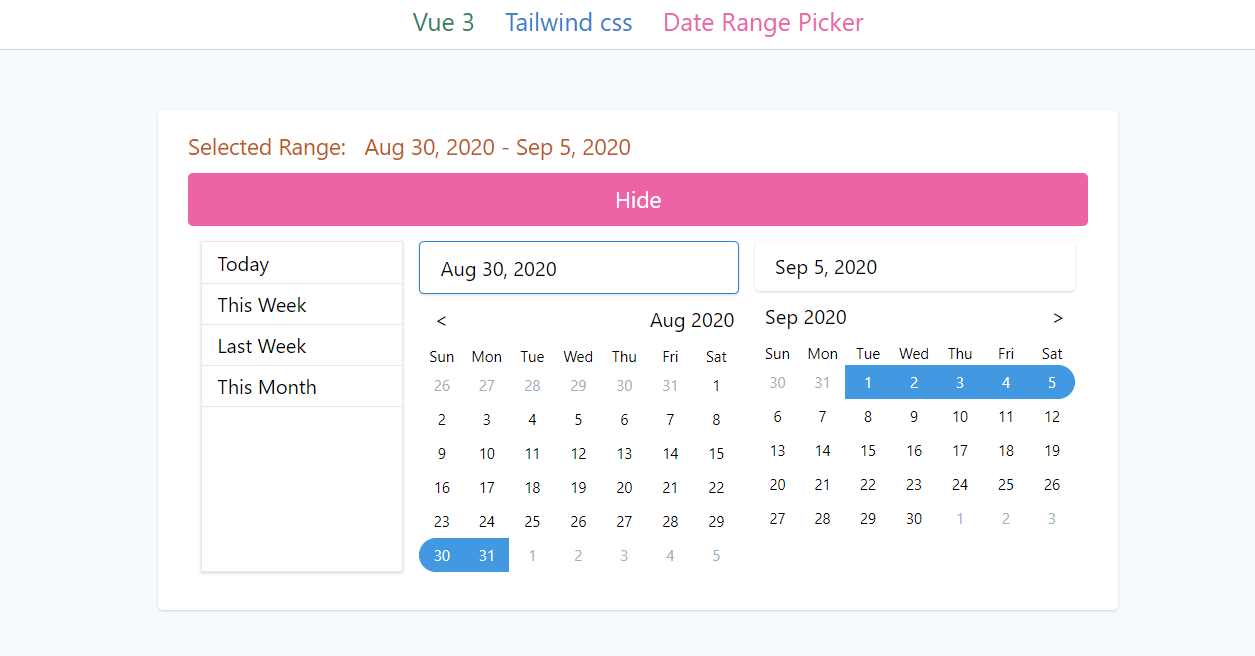
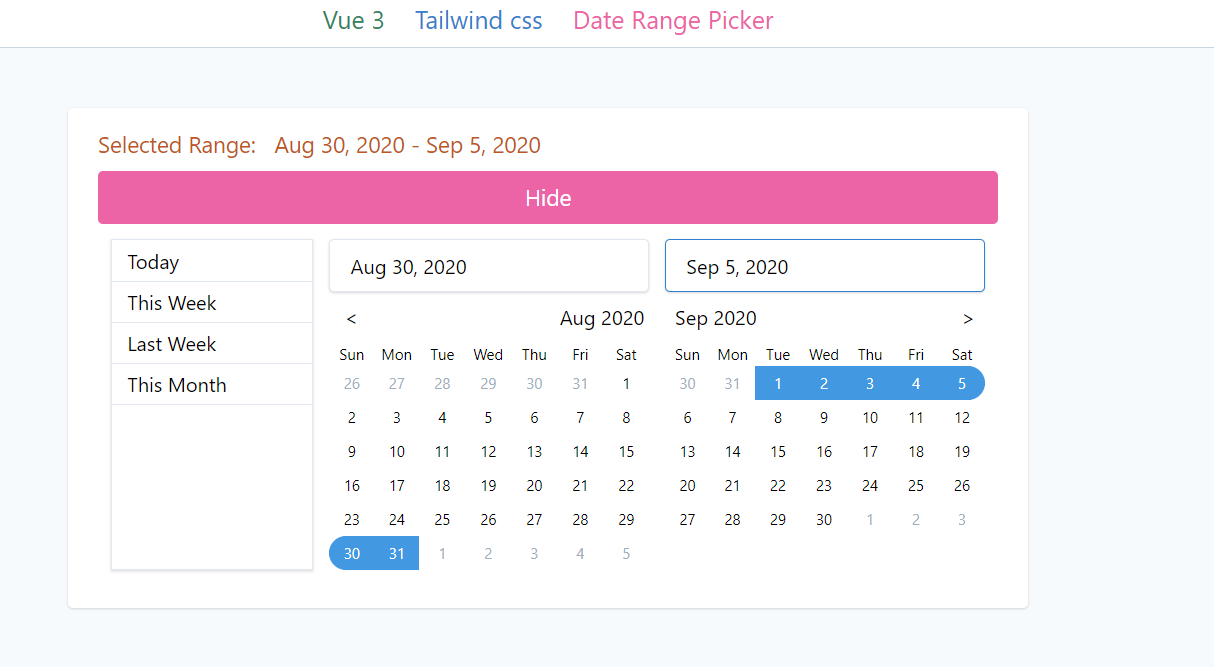
fixed small alignment issue between from and to date

diff --git a/tailwind-date-range/src/components/DateRange.vue b/tailwind-date-range/src/components/DateRange.vue
@@ -12,7 +12,7 @@
                 <hr/>
             </div>
             <div class="flex flex-col">
-                <input :class="{'outline-none shadow appearance-none py-2 px-4 rounded cursor-pointer':true,'border border-blue-600':selectedField=='start_date'}"
+                <input :class="{'outline-none shadow appearance-none py-2 px-4 rounded cursor-pointer border':true,'border-blue-600':selectedField=='start_date'}"
                      placeholder="Start" readonly @click="selectedField='start_date'" :value="displayDate(startDate)">
                 <table class="table-fixed w-64">
                      <thead>
@@ -48,7 +48,7 @@
                 </table>
             </div>
             <div class="flex flex-col">
-                <input :class="{'outline-none shadow appearance-none py-2 px-4 rounded cursor-pointer':true,'border border-blue-600':selectedField=='end_date'}"
+                <input :class="{'outline-none shadow appearance-none py-2 px-4 rounded cursor-pointer border':true,'border-blue-600':selectedField=='end_date'}"
                      placeholder="End" readonly @click="selectedField='end_date'" :value="displayDate(endDate)">            
                 <table class="table-fixed w-64">
                      <thead>
